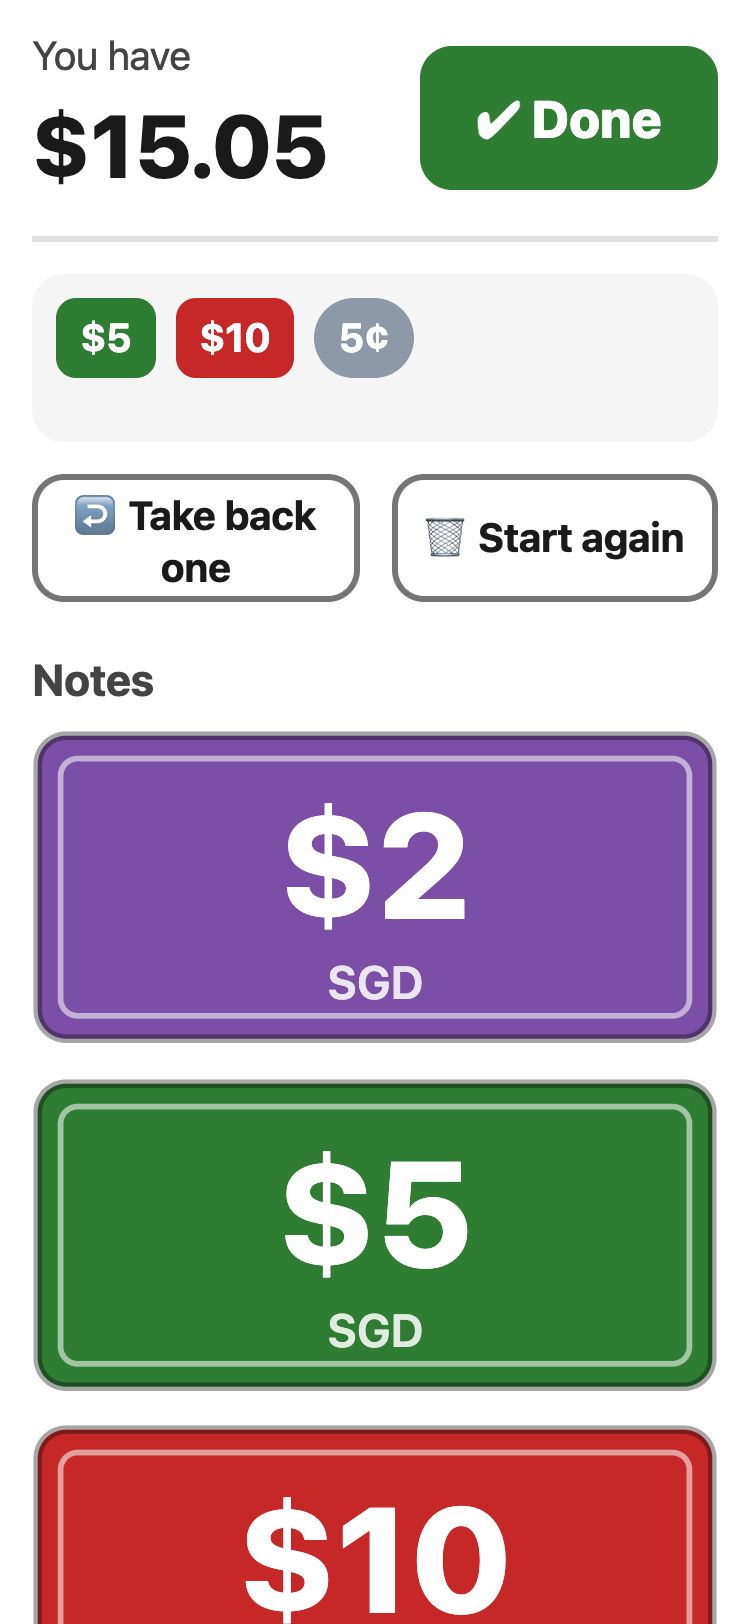
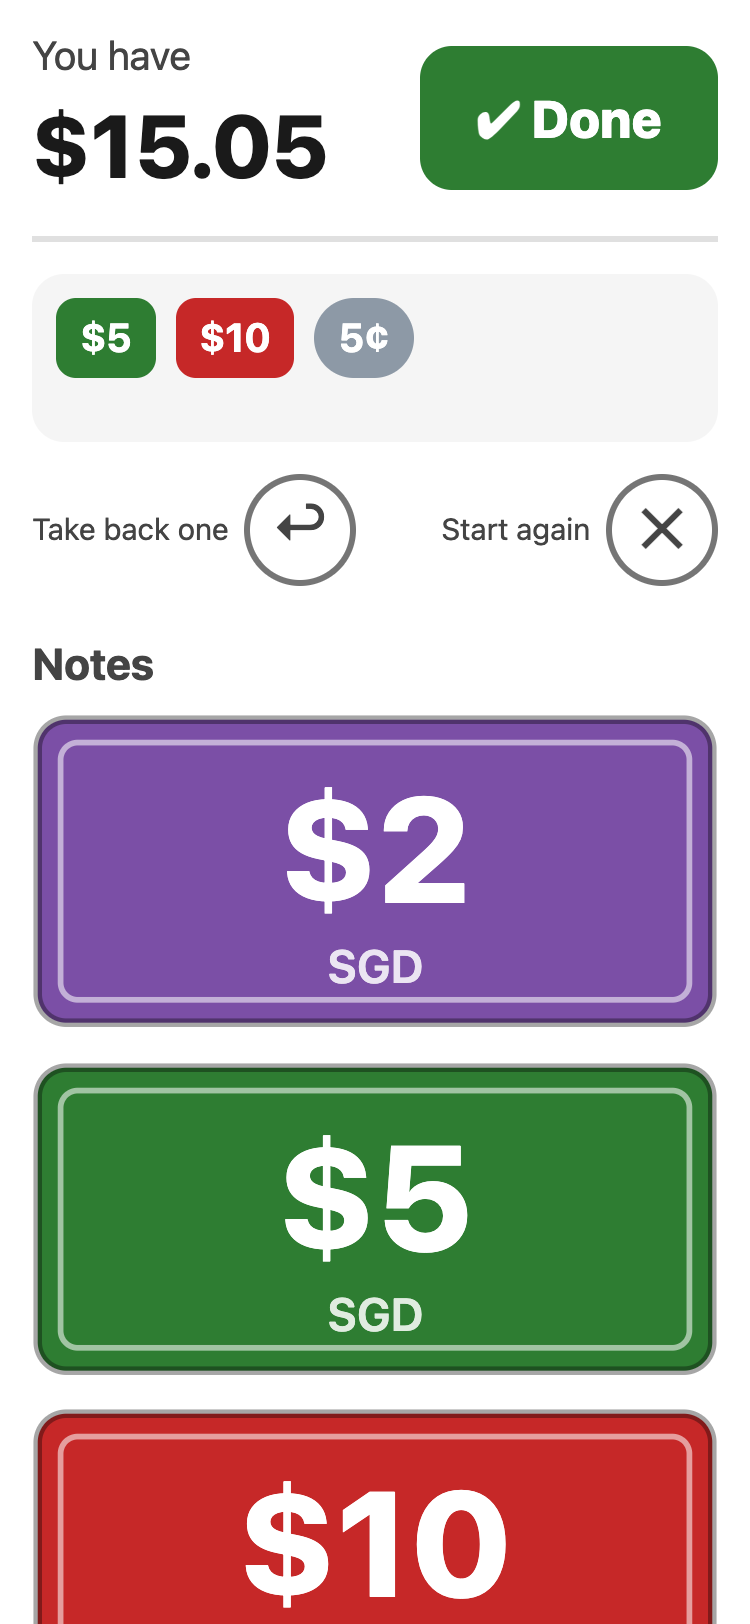
feat: picker actions adopt the header's label + round button pattern
"Take back one" and "Start again" were pill buttons; they now use the
same quiet label + round icon button as "Start over", with ✕ carrying
its usual "clear" meaning. Both changed, not just "Start again" — one
pill beside one round button would have read as two kinds of control.

Wording stays distinct: the picker's reset only drops the tapped notes,
so sharing "Start over" verbatim could imply it wipes the whole screen.

The three definitions (in-box 🎤/✕, header ✕, picker ↩/✕) collapse into
one .round-btn appearance, with absolute positioning scoped to the pair
that overlays a money box. Disabled state moved onto the wrapper so the
label dims with its button.

Screenshots regenerated, cache bumped to v19.

diff --git a/public/css/styles.css b/public/css/styles.css
@@ -63,22 +63,20 @@ main {
 }
 h1 { font-size: 26px; margin: 0; }
 
-/* "Start over" pairs a quiet text label with the same round ✕ used to
-   clear a single box, so one glyph means "clear" everywhere in the app. */
-.clear-all-wrap {
+/* A quiet text label beside a round icon button — used for "Start over" in
+   the header and for the picker's two actions, so a circle always reads as
+   a small action and ✕ always means "clear". */
+.labelled-btn {
   display: flex;
   align-items: center;
   gap: 8px;
   flex: none;
 }
-.clear-all-label {
+.labelled-btn-text {
   font-size: 15px;
   color: var(--color-muted);
 }
-.clear-all-wrap .clear-btn {
-  position: static;
-  transform: none;
-}
+.labelled-btn:has(:disabled) { opacity: 0.4; }
 
 /* ---------- zones ---------- */
 .zone { margin-bottom: 28px; }
@@ -131,15 +129,13 @@ h2 {
   flex: 1;
 }
 
-/* One slot at the box's right end, always filled by exactly one of these:
-   🎤 while the box is empty (speak instead of type), ✕ once it has a number
-   (wipe it). Neither can read as "press this to continue". */
+/* Round icon buttons. In a money box the 🎤/✕ pair shares one slot at the
+   right end: 🎤 while it is empty (speak instead of type), ✕ once it has a
+   number (wipe it). .round-btn is the same circle standing on its own beside
+   a label, so a circle always reads as "a small action here". */
 .mic-btn,
-.clear-btn {
-  position: absolute;
-  top: 50%;
-  right: 6px;
-  transform: translateY(-50%);
+.clear-btn,
+.round-btn {
   width: var(--target-small);
   height: var(--target-small);
   font-size: 26px;
@@ -149,15 +145,27 @@ h2 {
   border-radius: 50%;
   cursor: pointer;
 }
+/* only the in-box pair overlays the field */
+.mic-btn,
 .clear-btn {
+  position: absolute;
+  top: 50%;
+  right: 6px;
+  transform: translateY(-50%);
+}
+.clear-btn,
+.round-btn {
   font-size: 28px;
   font-weight: 700;
   color: var(--color-muted);
 }
+.round-btn:disabled { cursor: default; }
 .mic-btn:active,
-.clear-btn:active { background: #e3f2fd; }
+.clear-btn:active,
+.round-btn:not(:disabled):active { background: #e3f2fd; }
 .mic-btn:focus-visible,
-.clear-btn:focus-visible {
+.clear-btn:focus-visible,
+.round-btn:focus-visible {
   outline: 3px solid var(--color-primary);
   outline-offset: 2px;
 }
@@ -437,22 +445,10 @@ h2 {
 
 .picker-actions {
   display: flex;
+  justify-content: space-between;
   gap: var(--gap);
   margin-top: var(--gap);
 }
-.picker-action-btn {
-  flex: 1;
-  min-height: var(--target);
-  font-family: inherit;
-  font-size: 20px;
-  font-weight: 700;
-  color: var(--color-text);
-  background: #fff;
-  border: 3px solid var(--color-border);
-  border-radius: var(--radius);
-  cursor: pointer;
-}
-.picker-action-btn:disabled { opacity: 0.4; cursor: default; }
 
 .picker-group-label {
   margin: 24px 0 10px;

diff --git a/public/index.html b/public/index.html
@@ -39,9 +39,9 @@
 
   <header class="app-header">
     <h1>Can I afford it?</h1>
-    <div class="clear-all-wrap">
-      <span class="clear-all-label" aria-hidden="true">Start over</span>
-      <button id="clear-all" class="clear-btn" type="button"
+    <div id="clear-all-wrap" class="labelled-btn">
+      <span class="labelled-btn-text" aria-hidden="true">Start over</span>
+      <button id="clear-all" class="round-btn" type="button"
               aria-label="Start over: clear everything">
         <span aria-hidden="true">✕</span>
       </button>
@@ -124,12 +124,20 @@
     </div>
 
     <div class="picker-actions">
-      <button id="picker-undo" class="picker-action-btn" type="button">
-        <span aria-hidden="true">↩</span> Take back one
-      </button>
-      <button id="picker-clear" class="picker-action-btn" type="button">
-        <span aria-hidden="true">🗑</span> Start again
-      </button>
+      <div class="labelled-btn">
+        <span class="labelled-btn-text" aria-hidden="true">Take back one</span>
+        <button id="picker-undo" class="round-btn" type="button"
+                aria-label="Take back one: remove the last note or coin I tapped">
+          <span aria-hidden="true">↩</span>
+        </button>
+      </div>
+      <div class="labelled-btn">
+        <span class="labelled-btn-text" aria-hidden="true">Start again</span>
+        <button id="picker-clear" class="round-btn" type="button"
+                aria-label="Start again: take back all the notes and coins I tapped">
+          <span aria-hidden="true">✕</span>
+        </button>
+      </div>
     </div>
 
     <h3 class="picker-group-label">Notes</h3>

diff --git a/public/js/app.js b/public/js/app.js
@@ -21,7 +21,7 @@ const speakMoneyBtn = $("speak-money");
 const clearMoneyBtn = $("clear-money");
 const openPickerBtn = $("open-picker");
 const clearAllBtn = $("clear-all");
-const clearAllWrap = document.querySelector(".clear-all-wrap");
+const clearAllWrap = $("clear-all-wrap");
 const addItemBtn = $("add-item");
 const moneyChip = $("money-chip");
 const itemsTotalEl = $("items-total");

diff --git a/public/sw.js b/public/sw.js
@@ -2,7 +2,7 @@
 // launch picks up new files; firebase.json serves this file with no-cache.
 // "/guide" (not "/guide.html"): Hosting cleanUrls 301s the .html form, and a
 // cached redirected response breaks offline navigations.
-const CACHE = "afford-v18";
+const CACHE = "afford-v19";
 const ASSETS = [
   "/",
   "/index.html",
